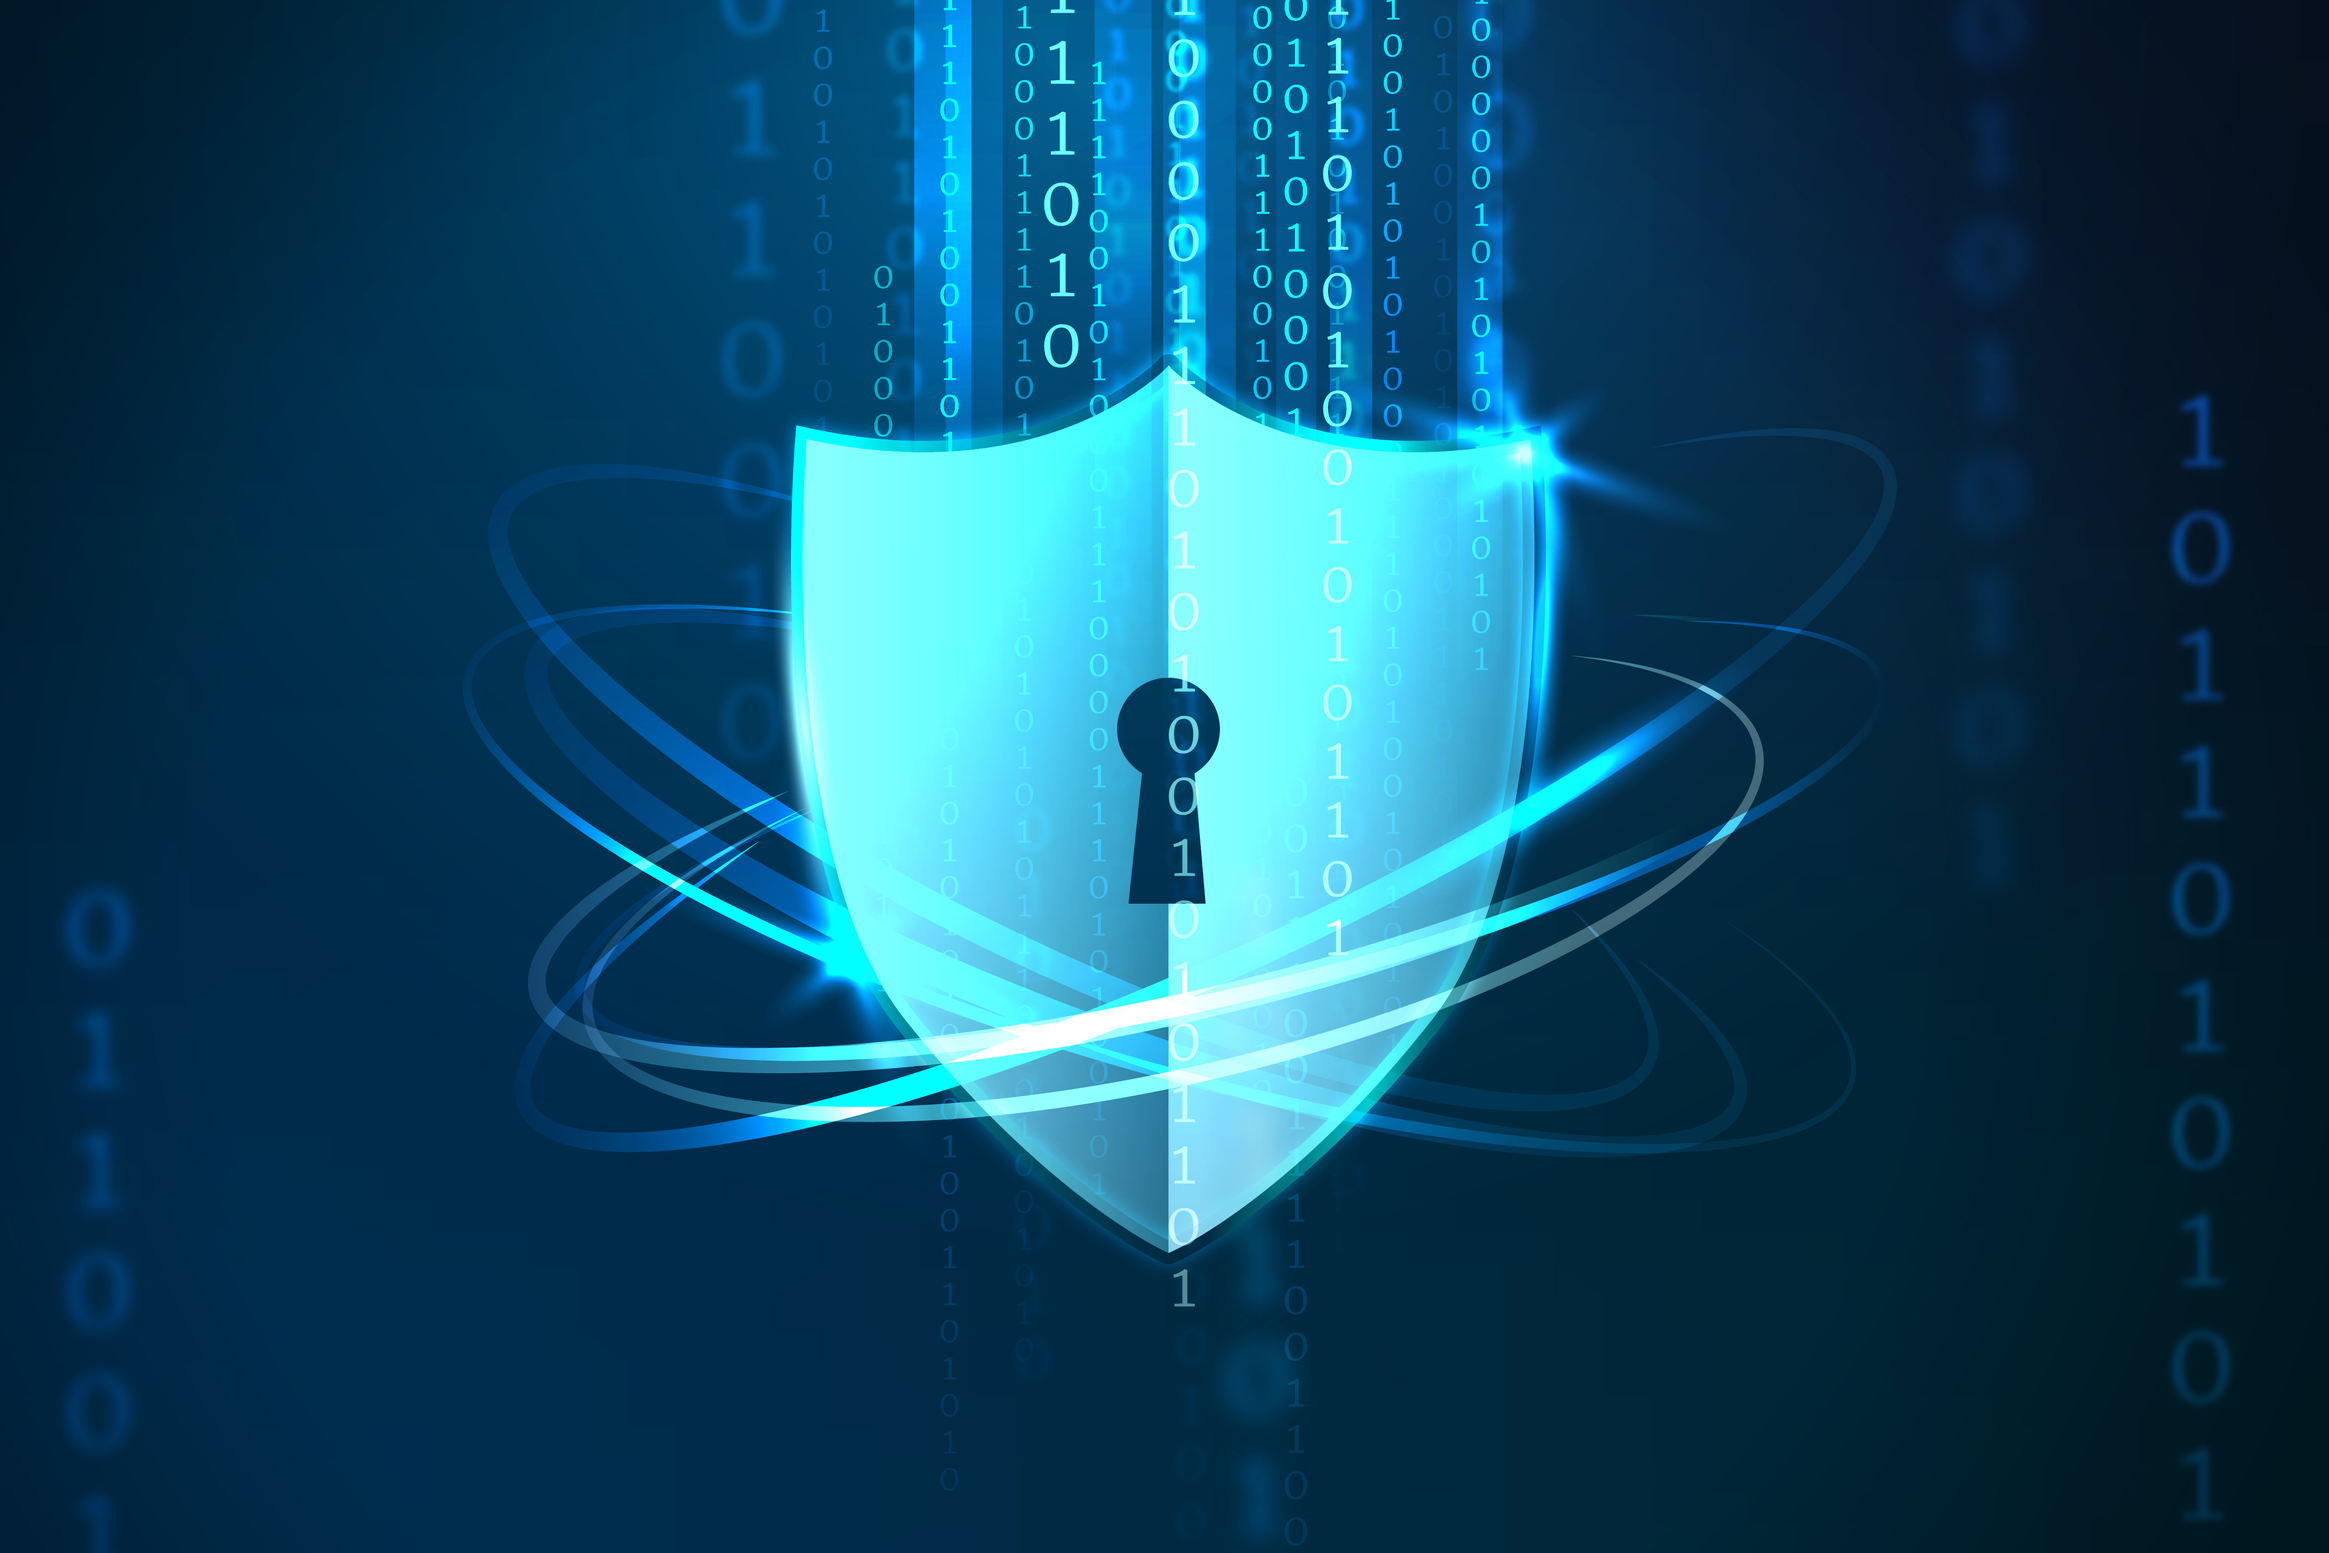
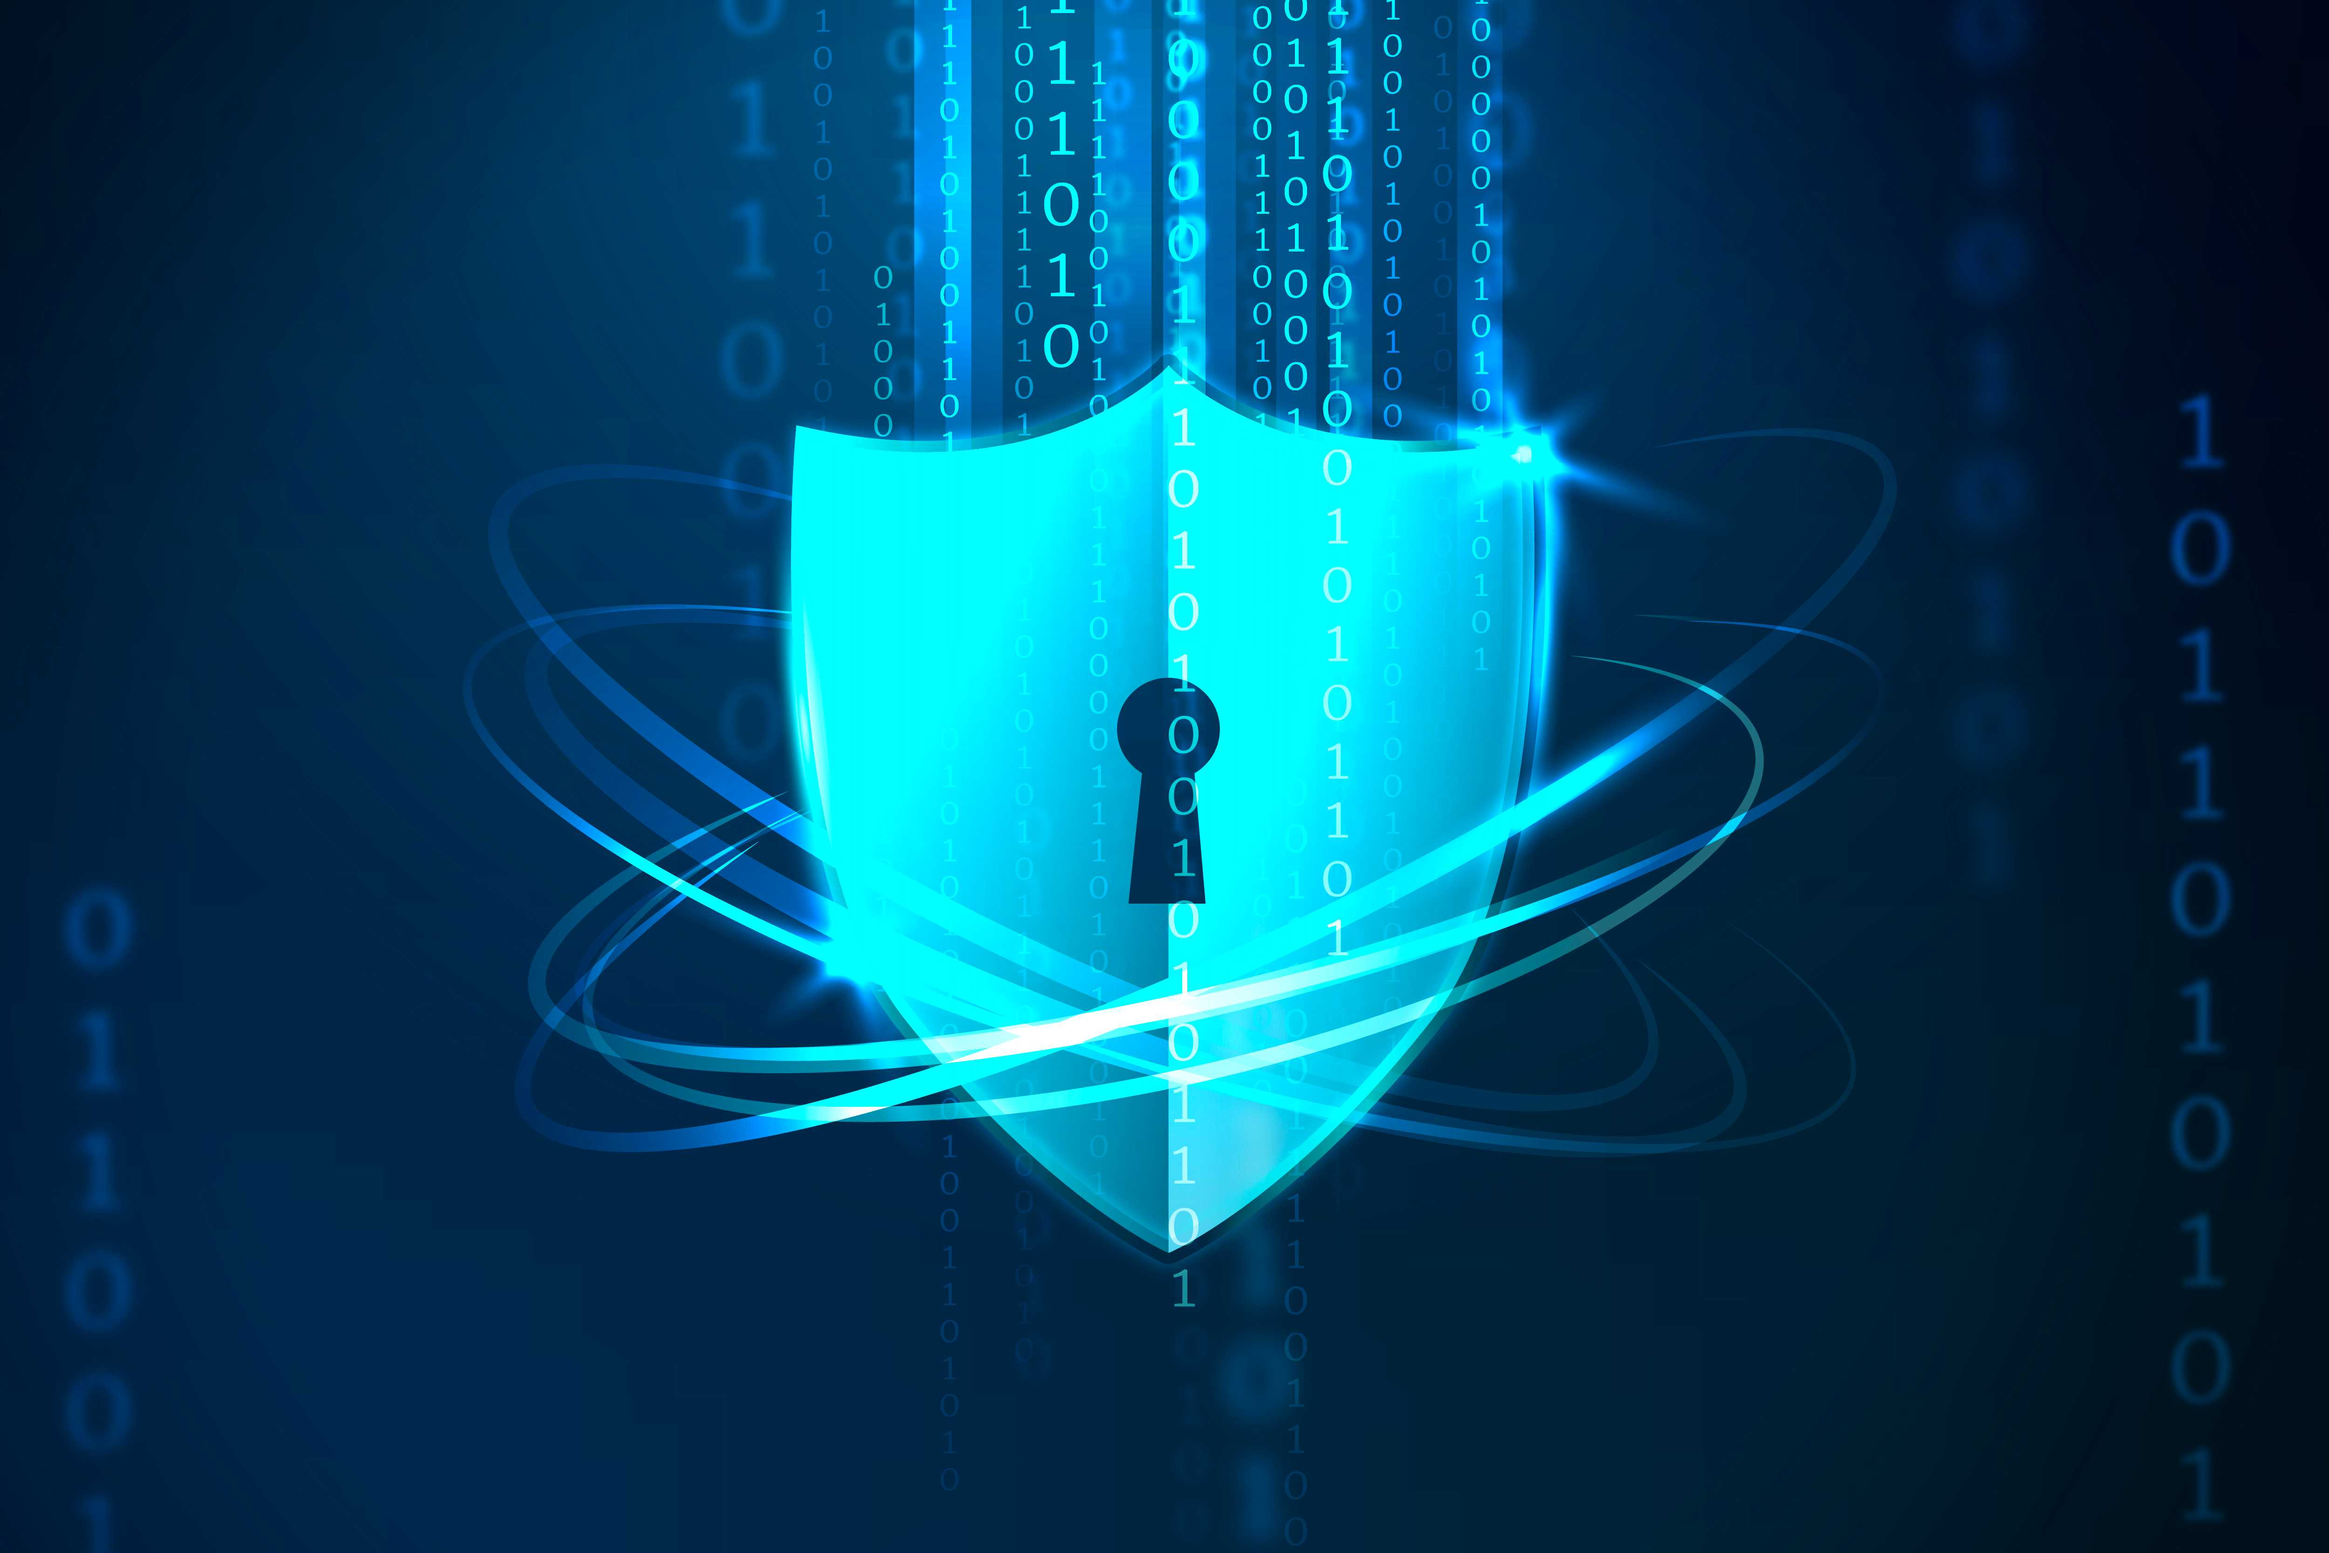
photo_size_updation

diff --git a/src/pages/Home.jsx b/src/pages/Home.jsx
@@ -8,9 +8,9 @@ import learn from "../assets/learn.jpg";
 import communityImage from "../assets/community.jpg";
 
 import firstflip from "../assets/firstflip-full.jpg"
-import fourthflip from "../assets/fourthflip-full.jpg"
-import thirdflip from "../assets/thirdflip-full.jpg"
-import secondflip from "../assets/secondflip-full.jpg"
+import fourthflip from "../assets/fourthflip-full.jpg";
+import thirdflip from "../assets/thirdflip-full.jpg";
+import secondflip from "../assets/secondflip-full.jpg";
 
 import discover from "../assets/discovery.png"
 import list from "../assets/list.png"
@@ -84,45 +84,6 @@ function Home() {
   return (
     <div className="home-container">
       {/* Hero Section */}
-      {/* <section className="hero-section">
-        <Container>
-          <Row className="align-items-center">
-            <Col md={12} lg={6}>
-              <h1>
-                <span className="highlight">Empowering Learners</span> for the
-                World of Tomorrow
-              </h1>
-              <p>
-                Skill Census stands apart as a new-generation education platform
-                built for professionals and graduates who want more than just
-                courses, they want transformation. Our training is shaped by
-                real industry needs, guided by experts with decades of global
-                experience, and designed for the skills that matter today and
-                will lead tomorrow.
-              </p>
-              <div className="mt-4 home-buttons">
-                <Button
-                  className="btn"
-                  variant="primary"
-                  onClick={() => navigate("/training")}
-                >
-                  Explore Training
-                </Button>
-                <Button
-                  variant="dark"
-                  className="btn"
-                  onClick={() => navigate("/hackathon")}
-                >
-                  Learn Through Experience
-                </Button>
-              </div>
-            </Col>
-            <Col md={12} lg={6} className="text-center mt-3">
-              <img src={studentImage} alt="Student" className="hero-img" />
-            </Col>
-          </Row>
-        </Container>
-      </section> */}
       <section
         className="training-hero-section position-relative d-flex align-items-center"
         style={{ minHeight: "95vh" }}
@@ -233,6 +194,7 @@ function Home() {
                         src={item.icon}
                         alt=""
                         className="flipcard-img position-absolute "
+                        loading="lazy"
                       />
                       <div className="flip-overlay"></div>
                       <h3 className="">{item.title}</h3>

diff --git a/src/pages/Training.jsx b/src/pages/Training.jsx
@@ -5,9 +5,10 @@ import { useLocation } from "react-router-dom";
 import "../styles/Training.css";
 import heroImg from "../assets/Gemini-lady.png";
 
-import team from "../assets/fourthflip-full.jpg"
+import team from "../assets/fourthflip-full.jpg";
 import train_model from "../assets/talking-audience.jpg"
 import business from "../assets/business-co.jpg"
+
 import career_goals from "../assets/career-goals.png";
 import upskilling from "../assets/upskilling.png";
 import to_do_list from "../assets/to-do-list.png";

diff --git a/src/styles/Training.css b/src/styles/Training.css
@@ -484,7 +484,7 @@ Button a{
 }
 
 .devops{
-   background-image: url(../assets/secondflip-full.jpg);
+   background-image: url(../assets/compressed_secondflip-full.jpg);
   background-repeat: no-repeat;
   background-size: cover;
   background-position: center;

diff --git a/src/styles/Home.css b/src/styles/Home.css
@@ -164,8 +164,9 @@
   width: 100%;
   height: 100%;
   text-align: center;
-  transition: transform 0.8s ease;
+  transition: transform 0.6s ease;
   transform-style: preserve-3d;
+  will-change: transform;
 }
 
 .flip-card:hover .flip-card-inner {
